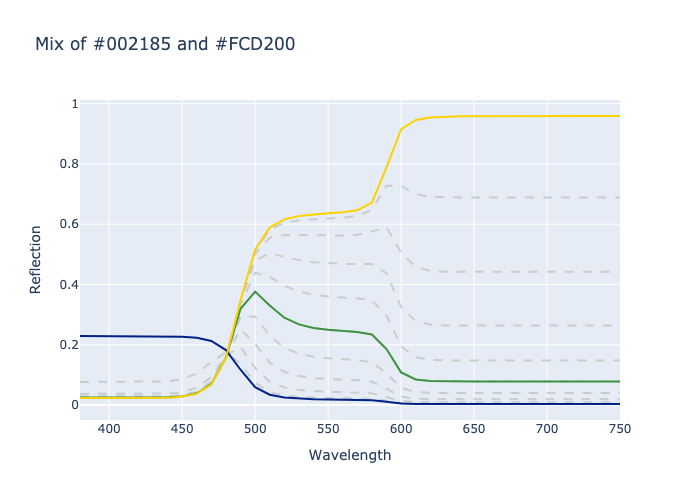
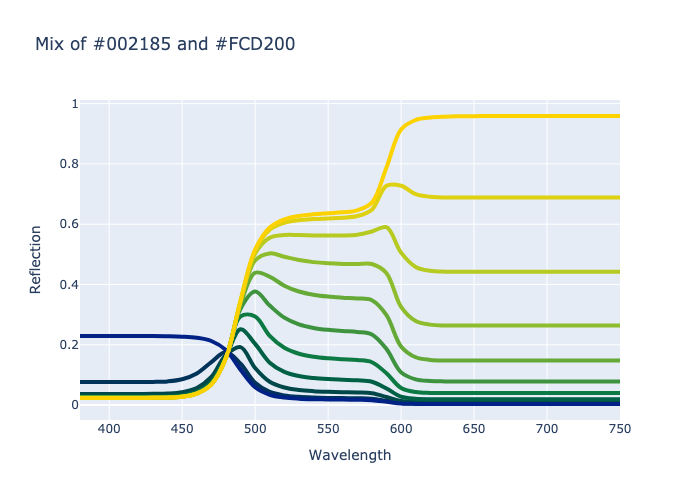
Update documentation
- Fix typo
- Improve diagrams

diff --git a/tools/plot_reflect.py b/tools/plot_reflect.py
@@ -71,6 +71,10 @@ def main():
         plot = []
         count = 0
         for i in (0.1, 0.2, 0.3, 0.4, 0.5, 0.6, 0.7, 0.8, 0.9, args.mix):
+
+            if i == -1:
+                continue
+
             t = spectral.nonlinear_luminance_ease(xyz[1], xyz2[1], i)
             size = len(r1)
             r = [0.0] * size
@@ -83,15 +87,15 @@ def main():
 
                 r[i] = (1 + ks - alg.nth_root(ks ** 2 + 2 * ks, 2))
 
-            if count != 9:
+            if args.mix > 0 and count != 9:
                 target.append(r)
                 plot.append('#cccccc')
                 style.append('dash')
             else:
                 target.append(r)
-                xyz1 = spectral.reflectance_to_xyz(r)
-                xyz2 = [alg.lerp(r1, r2, t) for r1, r2 in zip(res1, res2)]
-                xyz_final = [xyz1[0] + xyz2[0], xyz1[1] + xyz2[1], xyz1[2] + xyz2[2]]
+                xyza = spectral.reflectance_to_xyz(r)
+                xyzb = [alg.lerp(r1, r2, t) for r1, r2 in zip(res1, res2)]
+                xyz_final = [xyza[0] + xyzb[0], xyza[1] + xyzb[1], xyza[2] + xyzb[2]]
                 color3 = Color('xyz-d65', xyz_final)
                 plot.append(color3.convert('srgb').to_string(hex=True))
                 style.append('solid')
@@ -129,7 +133,7 @@ def main():
             x=list(range(START, END, STEP)),
             y=t,
             mode="lines",
-            line={'color': p, 'width': 2, 'dash': style[e]},
+            line={'color': p, 'width': 4, 'dash': style[e], 'shape': 'spline'},
             showlegend=False
         ))
 

diff --git a/docs/src/markdown/interpolate/spectral.md b/docs/src/markdown/interpolate/spectral.md
@@ -106,8 +106,8 @@ different.
     - `#!color rgb(255 255 0)`
 
     During our evaluation, we found that `#!color rgb(255 255 255)` was not needed and sufficient coverage can be
-    obtained without it. The white reflectance curve also exceeded the range for appropriate for the Kubelka-Munk
-    functions, and additional logic is present to compensate for this.
+    obtained without it. The white reflectance curve also exceeded the range appropriate for the Kubelka-Munk functions,
+    and additional logic is present to compensate for this.
 
 3.  During decomposition of colors we constrain concentrations to be between 0 and 1. We also constrain the final
     composite reflectance curve to be between a very small value and 1 as the Kubelka-Munk functions expect reflectance
